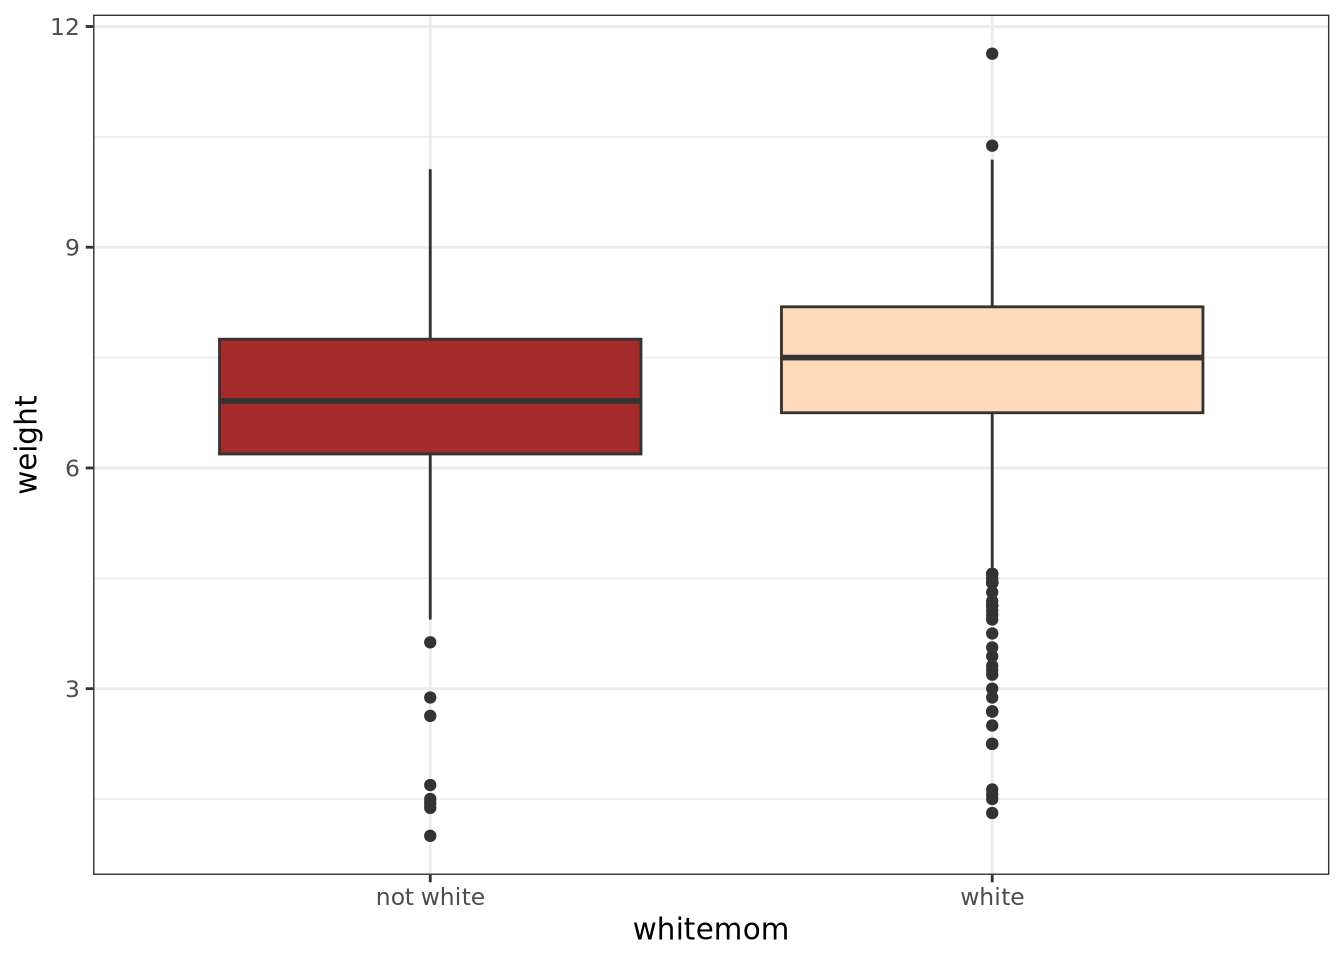
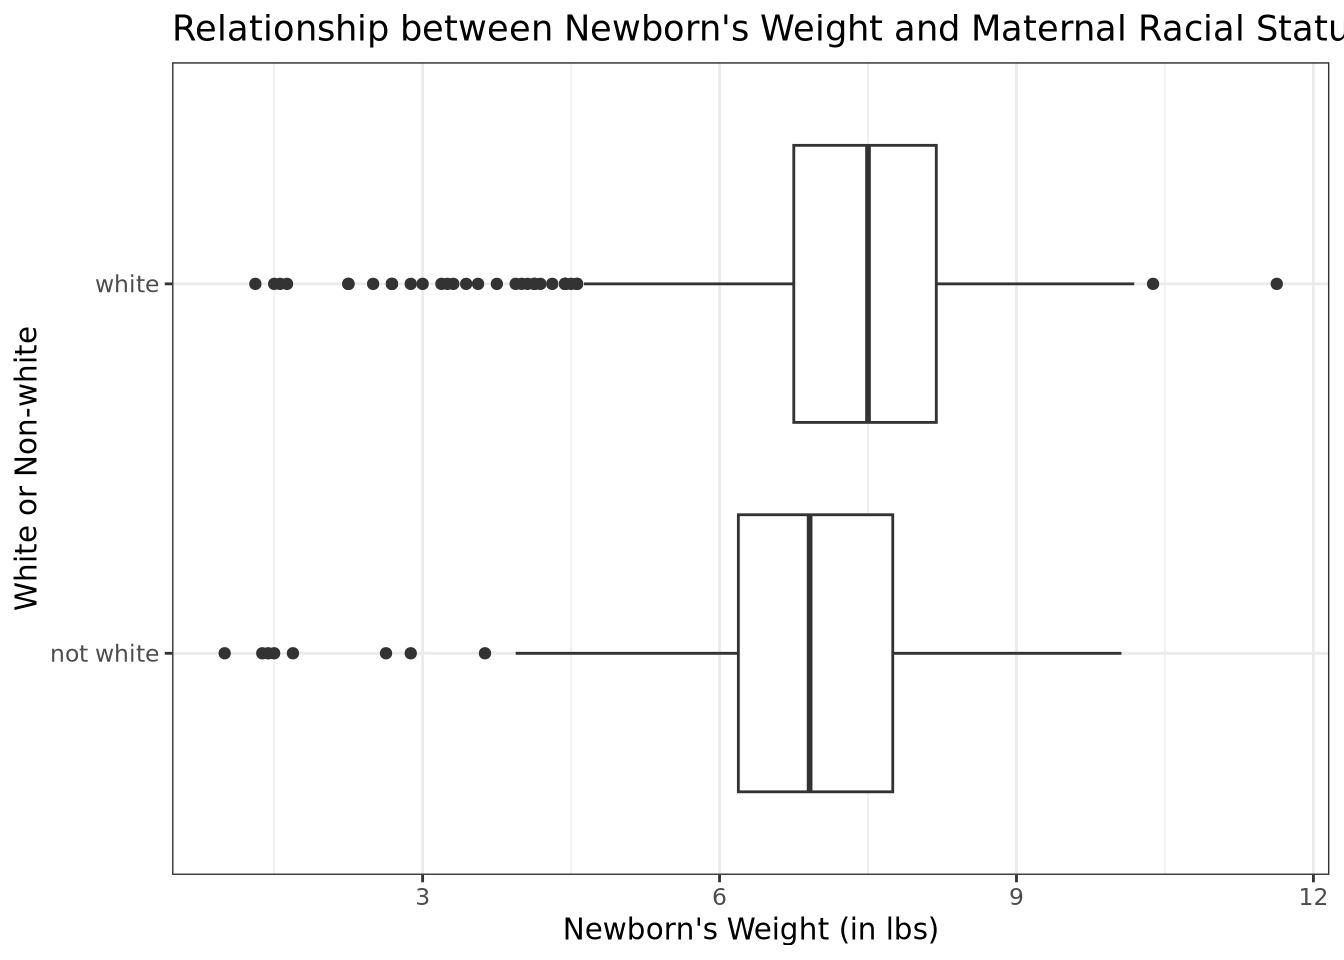
Answered question #12 and created a boxplot.

diff --git a/PS02_source.html b/PS02_source.html
@@ -98,7 +98,7 @@ pre > code.sourceCode > span > a:first-child::before { text-decoration: underlin
     <div>
     <div class="quarto-title-meta-heading">Published</div>
     <div class="quarto-title-meta-contents">
-      <p class="date">Last modified on August 31, 2023 11:29:51 Eastern Daylight Time</p>
+      <p class="date">Last modified on August 31, 2023 11:38:42 Eastern Daylight Time</p>
     </div>
   </div>
   
@@ -982,10 +982,19 @@ Problem 12 Answers
 <div id="callout-37" class="callout-37-contents callout-collapse collapse show">
 <div class="callout-body-container callout-body">
 <div class="cell" data-layout-align="center">
-<div class="sourceCode cell-code" id="cb23"><pre class="sourceCode r code-with-copy"><code class="sourceCode r"><span id="cb23-1"><a href="#cb23-1" aria-hidden="true" tabindex="-1"></a><span class="co"># Type your code and comments inside the code chunk</span></span></code><button title="Copy to Clipboard" class="code-copy-button"><i class="bi"></i></button></pre></div>
+<div class="sourceCode cell-code" id="cb23"><pre class="sourceCode r code-with-copy"><code class="sourceCode r"><span id="cb23-1"><a href="#cb23-1" aria-hidden="true" tabindex="-1"></a><span class="fu">ggplot</span>(<span class="at">data =</span> nc, <span class="fu">aes</span>(<span class="at">x =</span> weight, <span class="at">y =</span> whitemom)) <span class="sc">+</span> <span class="fu">labs</span>(<span class="at">x =</span> <span class="st">"Newborn's Weight (in lbs)"</span>, <span class="at">y =</span> <span class="st">"White or Non-white"</span>, <span class="at">title =</span> <span class="st">"Relationship between Newborn's Weight and Maternal Racial Status"</span>) <span class="sc">+</span></span>
+<span id="cb23-2"><a href="#cb23-2" aria-hidden="true" tabindex="-1"></a>  <span class="fu">geom_boxplot</span>() <span class="sc">+</span> </span>
+<span id="cb23-3"><a href="#cb23-3" aria-hidden="true" tabindex="-1"></a>  <span class="fu">theme_bw</span>()</span></code><button title="Copy to Clipboard" class="code-copy-button"><i class="bi"></i></button></pre></div>
+<div class="cell-output-display">
+<div class="quarto-figure quarto-figure-center">
+<figure class="figure">
+<p><img src="PS02_source_files/figure-html/unnamed-chunk-23-1.png" class="img-fluid figure-img" width="672"></p>
+</figure>
+</div>
+</div>
 </div>
 <ul>
-<li>Delete this and put your text answer here.</li>
+<li>In this sample, the median birth weight for babies is greater for white moms compared to non-white moms.</li>
 </ul>
 </div>
 </div>
